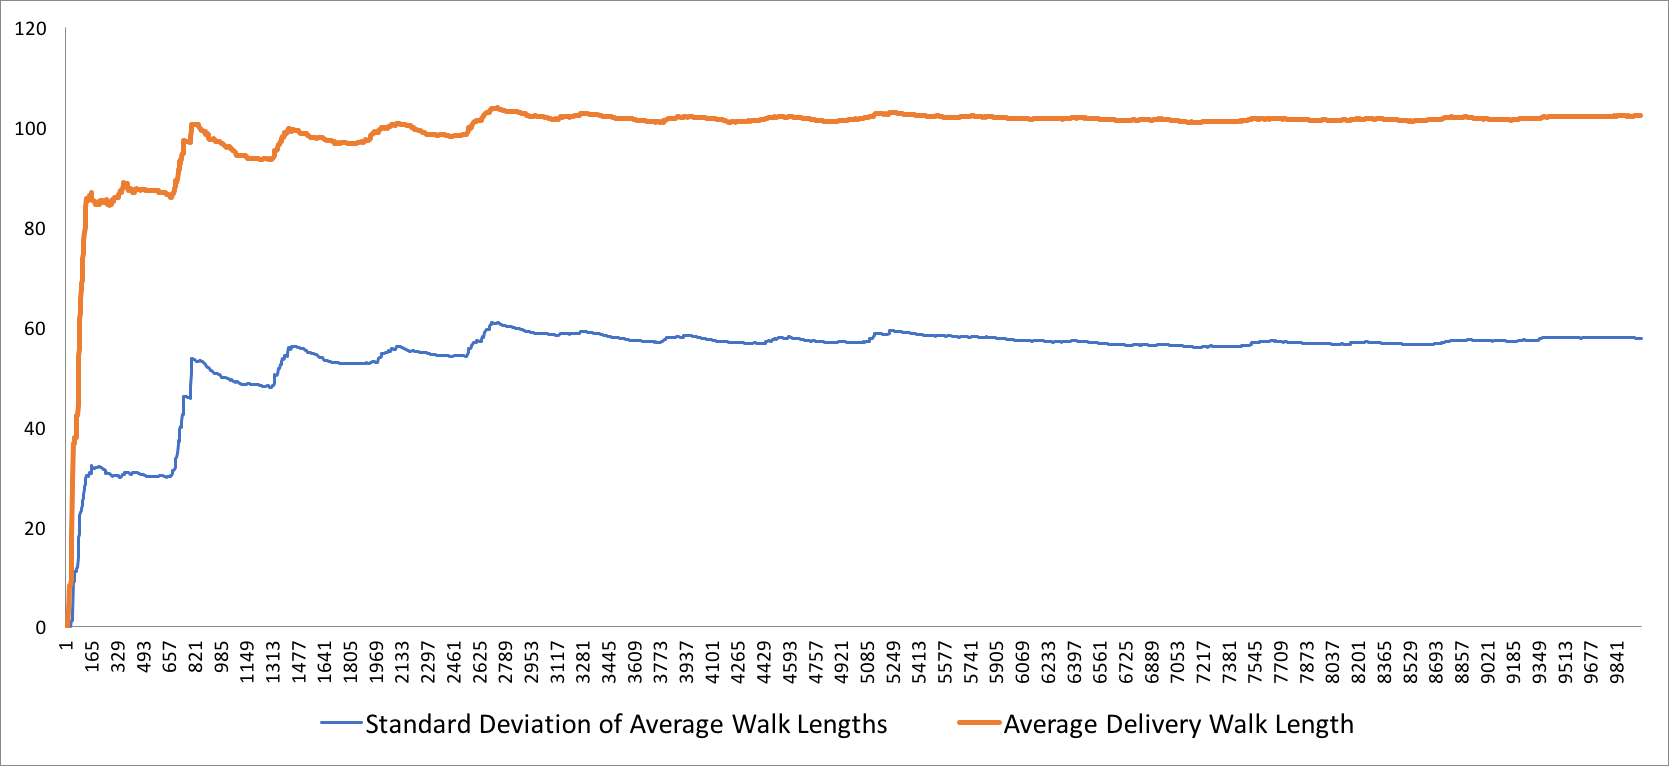
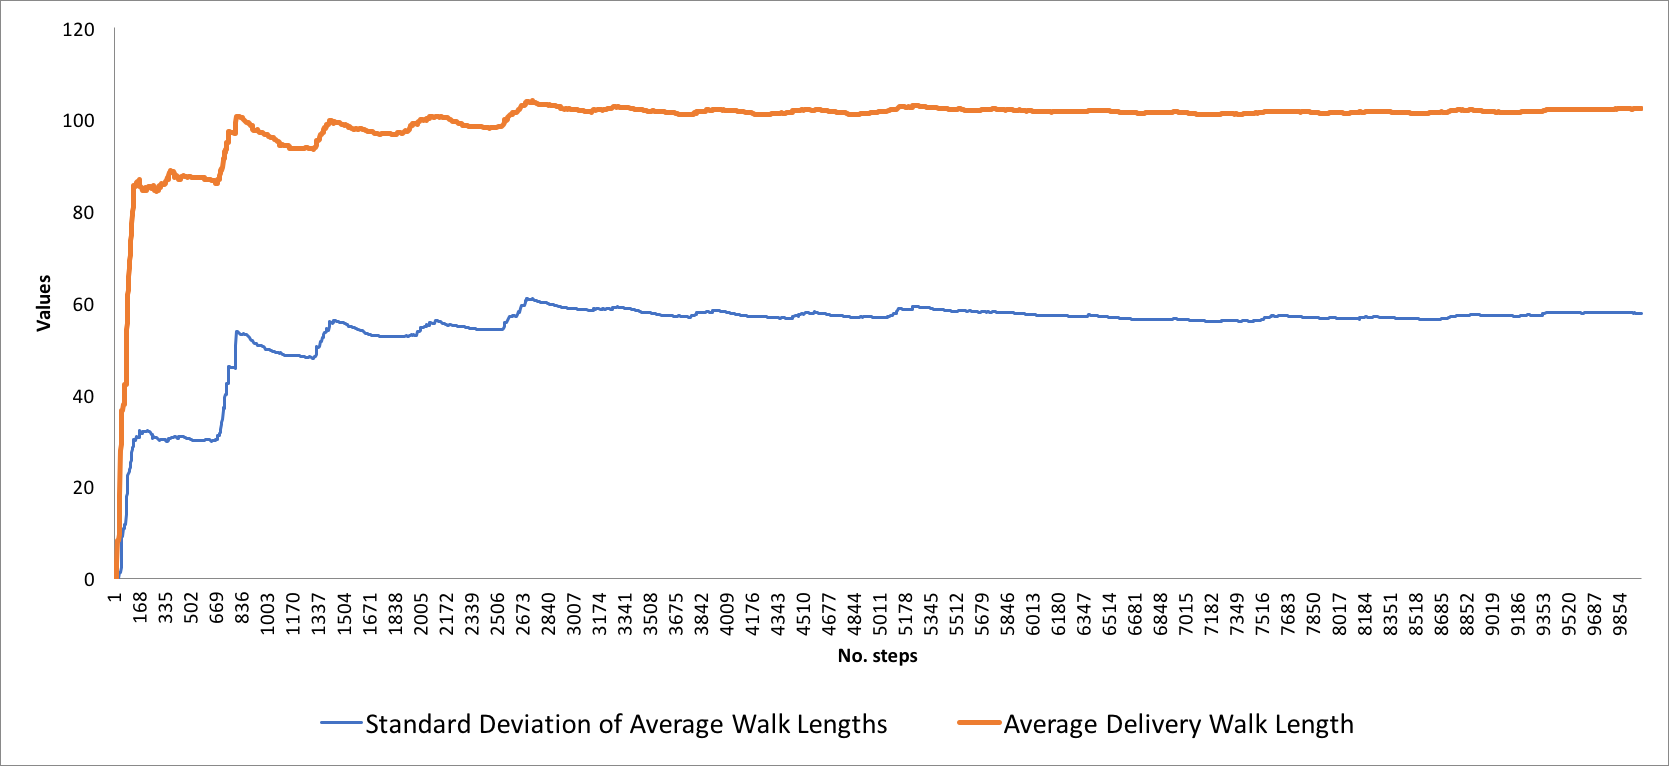
graph updated (figure 3). small fix of name in the beginning

diff --git a/paper_latex_project/scs17paper.tex b/paper_latex_project/scs17paper.tex
@@ -186,7 +186,7 @@ Christopher-Eyk Hrabia \\ [12pt]
 Distributed Artificial Intelligence Laboratory \\
 Technische Universität Berlin \\
 Str. des 17. Juni 135 \\
-Berlin, Germany
+Berlin, Germany \\
 christopher-eyk.hrabia@dai-labor.de \\
 \and
 Sahin Albayrak\\[12pt]
